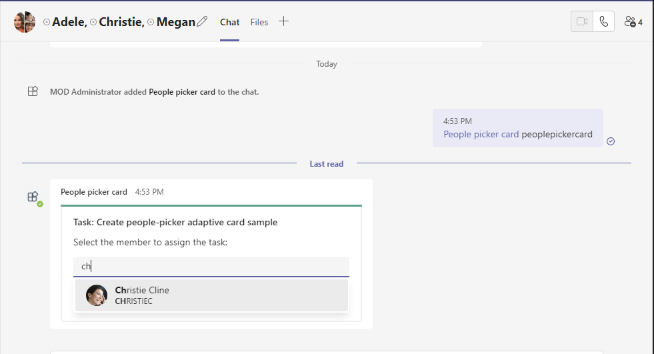
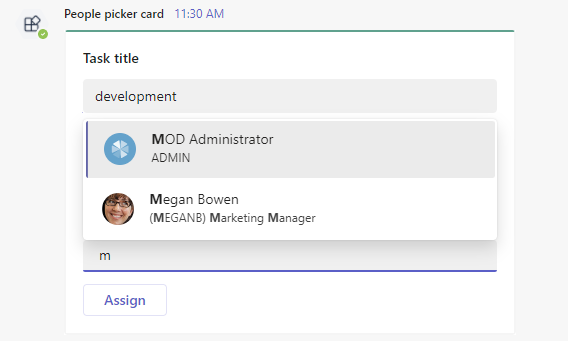
updating card

diff --git a/samples/bot-people-picker-adaptive-card/nodejs/bots/teamsBot.js b/samples/bot-people-picker-adaptive-card/nodejs/bots/teamsBot.js
@@ -32,7 +32,7 @@ class TeamsBot extends TeamsActivityHandler {
         }
       }
       else if (context.activity.value != null) {
-        await context.sendActivity("Task assigned to: " + context.activity.value.userId);
+        await context.sendActivity(`Task title: ${context.activity.value.taskTitle}, \n Task description : ${context.activity.value.taskDescription},\n Task assigned to : ${context.activity.value.userId}` );
       }
 
       // By calling next() you ensure that the next BotHandler is run.
@@ -58,10 +58,27 @@ class TeamsBot extends TeamsActivityHandler {
     "type": "AdaptiveCard",
     "body": [
       {
-        "text": " Task : Create people-picker adaptive card sample",
-        "wrap": true,
         "type": "TextBlock",
-        "weight": "Bolder"
+        "size": "Medium",
+        "weight": "Bolder",
+        "text": "Task title"
+      },
+      {
+        "type": "Input.Text",
+        "placeholder": "Task title",
+        "id": "taskTitle"
+      },
+      {
+        "type": "TextBlock",
+        "size": "Medium",
+        "text": "Task description",
+        "weight": "Bolder",
+      },
+      {
+        "type": "Input.Text",
+        "weight":"Bolder",
+        "placeholder": "Task description",
+        "id": "taskDescription"
       },
       {
         "columns": [
@@ -72,7 +89,8 @@ class TeamsBot extends TeamsActivityHandler {
                 "text": "Select the member to assign the task:",
                 "wrap": true,
                 "height": "stretch",
-                "type": "TextBlock"
+                "type": "TextBlock",
+                "weight":"Bolder",
               }
             ],
             "type": "Column"
@@ -119,10 +137,26 @@ class TeamsBot extends TeamsActivityHandler {
     "type": "AdaptiveCard",
     "body": [
       {
-        "text": " Task: Create people-picker adaptive card sample",
-        "wrap": true,
         "type": "TextBlock",
-        "weight": "Bolder"
+        "size": "Medium",
+        "weight": "Bolder",
+        "text": "Task title"
+      },
+      {
+        "type": "Input.Text",
+        "placeholder": "Task title",
+        "id": "taskTitle",
+      },
+      {
+        "type": "TextBlock",
+        "size": "Medium",
+        "weight": "Bolder",
+        "text": "Task description"
+      },
+      {
+        "type": "Input.Text",
+        "placeholder": "Task description",
+        "id": "taskDescription",
       },
       {
         "columns": [
@@ -133,7 +167,8 @@ class TeamsBot extends TeamsActivityHandler {
                 "text": "Select the member to assign the task: ",
                 "wrap": true,
                 "height": "stretch",
-                "type": "TextBlock"
+                "type": "TextBlock",
+                "weight":"Bolder",
               }
             ],
             "type": "Column"

diff --git a/samples/bot-people-picker-adaptive-card/nodejs/Readme.md b/samples/bot-people-picker-adaptive-card/nodejs/Readme.md
@@ -17,6 +17,8 @@ This sample shows the feature of people picker on Adaptive Cards.
 
  Use the bot command `peoplepickercard` to get the card with people picker control 
 
+![people picker card ](Images/adaptiveCard.png)
+
 - Personal scope (get all the users of organisation)
 
 ![people picker card ](Images/personalPeoplePickerCard.png)
